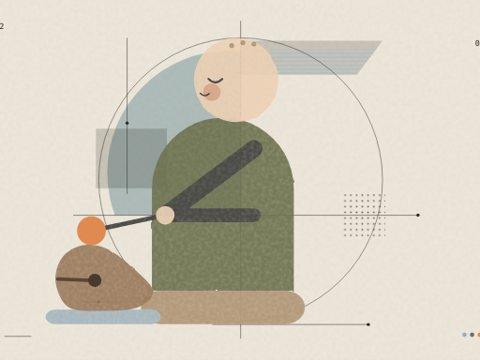
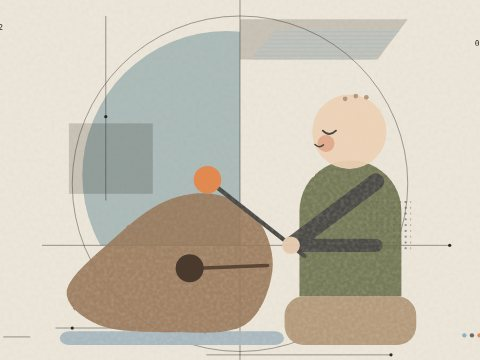
Linkages: big wooden fish, small seated monk (about 4:1 by area)
Claude-Session: https://claude.ai/code/session_01NPfPdtJwC2J2tRpUdWuEC5

diff --git a/projects/linkage/index.html b/projects/linkage/index.html
@@ -941,23 +941,23 @@ function toneize(svg,inkSel){plateize(svg,inkSel);svg.classList.add('tone');}
 
 const QR=["111111101010100000111101001111111", "100000101101101011001111101000001", "101110100010011100110000001011101", "101110101110100000100011101011101", "101110100010110010100100101011101", "100000100111101111100100101000001", "111111101010101010101010101111111", "000000001100100111110001000000000", "101101110001101111101100001001011", "000100001001011011011111001101101", "011110101110010010100011110111011", "001000011111000011001000001101001", "001001100010001010011000110111011", "010010001001101001001000100001110", "010110110000101001011000101100100", "010010000110011100100101111101100", "100000101010000000101100011011100", "010000011001101100100111101011011", "001110111011110100101010011110110", "110101000001001011100010001010000", "111010111010111110000010000101110", "111000001101111110001001001001101", "000001111110010101111111011000011", "010111001011110100001011110111001", "100100100110011001010011111110011", "000000001101001110010100100011010", "111111101101101001111101101010000", "100000101101010011111001100011100", "101110100101110111110011111110101", "101110101101101010010011100100011", "101110101110000111001001001101000", "100000100111101001001011100110001", "111111101001110011110101000011100"];
 /* ── 敲木魚・小和尚：D（肚子）在原點、A（肩膀）在右上 (2, 3)；長度 cm，y 向上 ── */
-const GA=[2,3],DEF={a:2,b:4,c:5},OFF=-25*Math.PI/180,MAL=3.4,TAIL=0.8,HEADR=0.65,FISH={rx:2.05,ry:1.6},TH0=Math.PI/2,U=(()=>{const v=[-0.25,-1],l=Math.hypot(...v);return [v[0]/l,v[1]/l];})();
+const GA=[2,3],DEF={a:2,b:4,c:5},OFF=-75*Math.PI/180,MAL=5,TAIL=0.8,HEADR=0.65,FISH={rx:2.05,ry:1.6},TH0=Math.PI/2,U=(()=>{const v=[-0.25,-1],l=Math.hypot(...v);return [v[0]/l,v[1]/l];})();
 const ROBE=[[-0.5,3.7],[0.6,4.35],[2.2,4.4],[3.3,3.8],[3.85,1.8],[4.05,-1.0],[3.6,-2.5],[1.5,-2.75],[-2.3,-2.7],[-3.2,-2.25],[-3.05,-1.45],[-1.6,-1.05],[-1.05,0.9],[-0.85,2.8]];
-const HEAD={c:[1.2,6.1],r:1.9};
+const HEAD={c:[0.75,5.35],r:1.75};
 /* 木魚側面：左邊圓鼓、往右收尖，側面一道魚嘴縫，縫底一個圓孔（y 向上，原點在木魚中心） */
 const FISH_CP=[[-2.15,-0.15],[-1.85,0.95],[-0.95,1.5],[0.15,1.35],[1.25,0.55],[2.25,-0.55],[1.55,-1.3],[0,-1.45],[-1.55,-1.3]];
-let FISH_P=null;const fishPts=()=>FISH_P||(FISH_P=smoothPts(FISH_CP,8));
+const FS=2.2;let FISH_P=null;const fishPts=()=>FISH_P||(FISH_P=smoothPts(FISH_CP,8).map(q=>[-q[0]*FS,q[1]*FS]));
 const FISH_TOP=()=>fishPts().reduce((m,q)=>q[1]>m[1]?q:m);
 /* 平滑曲線（Catmull–Rom），讓身體圓一點 */
 function smoothPts(P,n=8){const out=[],N=P.length;for(let i=0;i<N;i++){const p0=P[(i-1+N)%N],p1=P[i],p2=P[(i+1)%N],p3=P[(i+2)%N];
   for(let k=0;k<n;k++){const t=k/n,t2=t*t,t3=t2*t;out.push([0,1].map(j=>0.5*((2*p1[j])+(-p0[j]+p2[j])*t+(2*p0[j]-5*p1[j]+4*p2[j]-p3[j])*t2+(-p0[j]+3*p1[j]-3*p2[j]+p3[j])*t3)));}}return out;}
-const ROBE_S=(()=>{const P=[[-2.6,-3.4],[3.8,-3.4],[3.8,1.2]];for(let k=0;k<=24;k++){const a=Math.PI*k/24;P.push([0.6+3.2*Math.cos(a),1.2+3.2*Math.sin(a)]);}P.push([-2.6,1.2]);return P;})();
+const ROBE_S=(()=>{const P=[[-1.6,-2.4],[3.2,-2.4],[3.2,1.6]];for(let k=0;k<=24;k++){const a=Math.PI*k/24;P.push([0.8+2.4*Math.cos(a),1.6+2.4*Math.sin(a)]);}P.push([-1.6,1.6]);return P;})();
 /* 臉、戒疤、袈裟、木魚的五官：y 向上，畫面上用 -y */
 function monkFace(o){const c=HEAD.c,x=c[0],y=c[1];
   return {eye:`M${x-1.25} ${-(y+0.05)}q.3 .32 .62 0`,cheek:[x-1.1,y-0.55,0.32],mouth:`M${x-1.62} ${-(y-0.6)}q.2 .2 .4 .02`,
     dots:[[x-0.2,y+1.55],[x+0.3,y+1.68],[x+0.8,y+1.62]],ear:[x+0.6,y-0.2,0.42],sash:`M-0.9 -3.9L3.6 0.6`};}
 function fishFace(F){const x=F[0],y=F[1];
-  return {path:'M'+fishPts().map(q=>f3(x+q[0])+' '+f3(-(y+q[1]))).join('L')+'Z',mouth:`M${f3(x-2.05)} ${f3(-(y-0.02))}L${f3(x-0.55)} ${f3(-(y-0.08))}`,eye:[x-0.38,y-0.08,0.3]};}
+  return {path:'M'+fishPts().map(q=>f3(x+q[0])+' '+f3(-(y+q[1]))).join('L')+'Z',mouth:`M${f3(x+2.05*FS)} ${f3(-(y-0.02*FS))}L${f3(x+0.55*FS)} ${f3(-(y-0.08*FS))}`,eye:[x+0.38*FS,y-0.08*FS,0.3*FS]};}
 function fishFaceOld(F){const x=F[0],y=F[1];
   return {mouth:`M${f3(x-1.95)} ${f3(-(y-0.15))}Q${f3(x-1.0)} ${f3(-(y-0.75))} ${f3(x-0.15)} ${f3(-(y-0.1))}`,eye:[x-0.75,y+0.45,0.26],glint:[x-0.82,y+0.53,0.08],
     scales:`M${f3(x+0.35)} ${f3(-(y+0.75))}q.35 .3 .7 0M${f3(x+0.55)} ${f3(-(y+0.15))}q.35 .3 .7 0M${f3(x+0.3)} ${f3(-(y-0.45))}q.35 .3 .7 0`,
@@ -977,14 +977,14 @@ function analyse(s){
   list.forEach((g,i)=>{if(g.phi>list[iMax].phi)iMax=i;if(g.phi<list[iMin].phi)iMin=i;});
   let fish=null,floor=-5,ratio=null;
   if(list.length){const H=list[iMax].H,hit=[H[0]+U[0]*HEADR,H[1]+U[1]*HEADR],T=FISH_TOP();
-    const F=[hit[0]-T[0],hit[1]-T[1]];fish={F,hit};floor=Math.min(F[1]-1.45-0.6,-4.6);
+    const F=[hit[0]-T[0],hit[1]-T[1]];fish={F,hit};floor=Math.min(F[1]-1.45*FS-0.6,-3.6);
     if(sw.full){const n=list.length,strike=((iMax-iMin)+n)%n;ratio=(n-strike)/strike;}}
   const g=grashof({a:s.a,b:s.b,c:s.c,d:dG},'a');
   let kind='none';
   if(list.length){kind=sw.full?(Math.abs(g.diff)<0.05?'crit':'ok'):(Math.abs(g.diff)<0.05&&g.crankShortest?'crit':'jam');}
   return {s:{...s},list,full:sw.full,iMax,iMin,swing:list.length?(list[iMax].phi-list[iMin].phi)*180/Math.PI:0,fish,floor,ratio,g,kind};
 }
-const cushion=fl=>({c:[0.6,(-3.4+fl)/2],rx:3.7,ry:Math.max(0.45,(-3.4-fl)/2)});
+const cushion=fl=>({c:[0.8,(-2.4+fl)/2],rx:3.1,ry:Math.max(0.45,(-2.4-fl)/2)});
 /* 一個畫面（hero、模擬器、小測驗共用）*/
 let VID=0;
 function view(svg,opt={}){
@@ -1035,9 +1035,9 @@ function view(svg,opt={}){
       E.floor.setAttribute('x1',vb[0]);E.floor.setAttribute('x2',vb[0]+vb[2]);E.floor.setAttribute('y1',-an.floor);E.floor.setAttribute('y2',-an.floor);
       if(an.fish){const F=an.fish.F,ff=fishFace(F);E.fish.setAttribute('d',ff.path);E.fishHt.setAttribute('d',ff.path);E.slot.setAttribute('d',ff.mouth);
         E.feye.setAttribute('cx',ff.eye[0]);E.feye.setAttribute('cy',-ff.eye[1]);E.feye.setAttribute('r',ff.eye[2]);
-        const pb=F[1]-1.45;E.fpad.setAttribute('x',F[0]-2.6);E.fpad.setAttribute('y',-pb-0.05);E.fpad.setAttribute('width',5.2);E.fpad.setAttribute('height',Math.max(0.5,pb-an.floor+0.05));E.fpad.style.display='';
+        const pb=F[1]-1.45*FS;E.fpad.setAttribute('x',F[0]-2.4*FS);E.fpad.setAttribute('y',-pb-0.05);E.fpad.setAttribute('width',4.8*FS);E.fpad.setAttribute('height',Math.max(0.5,pb-an.floor+0.05));E.fpad.style.display='';
         E.fishG.style.transformOrigin=`${F[0]}px ${-pb}px`;E.fishG.style.display='';
-        E.plus.setAttribute('x',F[0]);E.plus.setAttribute('y',-F[1]-2.4);E.plus2.setAttribute('x',F[0]+0.09);E.plus2.setAttribute('y',-F[1]-2.34);}
+        E.plus.setAttribute('x',F[0]-1.5);E.plus.setAttribute('y',-F[1]-1.8*FS);E.plus2.setAttribute('x',F[0]-1.41);E.plus2.setAttribute('y',-F[1]-1.8*FS+.06);}
       else{E.fishG.style.display='none';E.fpad.style.display='none';}
       const L=an.list;E.trace.setAttribute('d',L.length?'M'+L.filter((_,i)=>i%4===0).map(g=>f3(g.H[0])+' '+f3(-g.H[1])).join('L'):'');
       this.draw();},
@@ -1067,14 +1067,14 @@ function knock(){if(!soundOn)return;try{AC=AC||new (window.AudioContext||window.
 
 /* ── 模擬器 ── */
 const st={s:{...DEF},playing:!reduce,speed:0.5};
-const hero=view($('hero'),{vb:[-8.6,-9.8,15.2,17.4],noSkel:true});
-const main=view($('stage'),{vb:[-8,-8.9,14,15.4]});
-const qv=view($('fig-quiz'),{vb:[-8,-9.2,14,15.7]});
+const hero=view($('hero'),{vb:[-14.4,-12,20.2,18],noSkel:true});
+const main=view($('stage'),{vb:[-13.8,-11.4,19,16.8]});
+const qv=view($('fig-quiz'),{vb:[-13.8,-11.6,19,17]});
 {const INK='.r-cush,.r-pad,.r-robe,.r-skin,.r-fish,.r-arm,.r-coup,.r-hand,.k-stick';toneize($('stage'),INK);toneize($('fig-quiz'),INK);}
 main.onHit=m=>{$('merit').textContent=m;knock();};
 hero.set(analyse(DEF));
 (function(){const an=analyse(DEF);const trace='M'+an.list.filter((_,i)=>i%4===0).map(g=>f3(g.H[0])+' '+f3(-g.H[1])).join('L');
-  const INK='.r-cush,.r-pad,.r-robe,.r-skin,.r-fish,.r-arm,.r-coup,.r-hand,.k-stick';plateize($('hero'),INK);plateOverlay($('hero'),[-8.6,-9.8,15.2,17.4],{no:'002',letters:'W / F / M',phrase:'Malleus et Piscis',c:[-1,-1.1],R:6.6,ay:0});})();
+  const INK='.r-cush,.r-pad,.r-robe,.r-skin,.r-fish,.r-arm,.r-coup,.r-hand,.k-stick';plateize($('hero'),INK);plateOverlay($('hero'),[-14.4,-12,20.2,18],{no:'002',letters:'W / F / M',c:[-4.6,-2.6],R:8.4,ay:0});})();
 const keys=['a','b','c'];
 function syncInputs(){for(const k of keys){$('in-'+k).value=st.s[k];$('out-'+k).textContent=n1(st.s[k])+' cm';}}
 const KIND={ok:['轉得動','曲柄可以轉一整圈。 The crank turns all the way round.'],
@@ -1116,28 +1116,29 @@ const isCustom=s=>keys.some(k=>Math.abs(s[k]-DEF[k])>1e-9);
 const customText=s=>isCustom(s)?`自訂桿長　曲柄 ${n1(s.a)}・連桿 ${n1(s.b)}・手臂 ${n1(s.c)} cm`:'';
 /* 零件位置（cm，y 向下、x 從摺線算起）。孔都在格點上 */
 function spots(s){
-  const R=s.a+0.8,dc=[Math.ceil(-14.85+R+0.4),17-Math.ceil(R+0.4)];
-  return {D:[8,9],disc:{D:dc,C:[dc[0]+s.a,dc[1]],R},coup:{C:[-13,9],B:[-13+s.b,9]},arm:{A:[-13,4],B:[-13+s.c,4]},fish:[-3.5,14.3]};
+  const R=s.a+0.8;
+  const dd=[-Math.ceil(R+0.4),Math.ceil(0.6+R)];return {D:[10,12],disc:{D:dd,C:[dd[0]+s.a,dd[1]],R},coup:{C:[-14,8.2],B:[-14+s.b,8.2]},arm:{A:[-14,2.4],B:[-14+s.c,2.4]},fish:[-9.3,12.8]};
 }
 const at=(o,p)=>[o[0]+p[0],o[1]-p[1]];
 function partsSVG(s,an,full){
   const p=spots(s),M=toMM;let o='';
   const F=an.fish?an.fish.F:[-3.4,-3.6],fl=an.floor,cu=cushion(fl),D=p.D;
   const base=full?[{pts:ROBE_S.map(q=>M(at(D,q))),closed:true,w:0.6},{circle:[...M(at(D,HEAD.c)),HEAD.r*10]},{pts:[[cu.c[0]-cu.rx,cu.c[1]+cu.ry],[cu.c[0]+cu.rx,cu.c[1]+cu.ry],[cu.c[0]+cu.rx,cu.c[1]-cu.ry],[cu.c[0]-cu.rx,cu.c[1]-cu.ry]].map(q=>M(at(D,q))),closed:true,w:0.6},
-      {pts:[M(at(D,[F[0]-FISH.rx,fl+0.35])),M(at(D,[cu.c[0]+1,fl+0.35]))],w:4}]
-    :[{pts:[M(at(D,[0,0])),M(at(D,GA))]},{pts:[M(at(D,[F[0]-FISH.rx,fl+0.35])),M(at(D,[0,fl+0.35]))],w:4},{pts:[M(at(D,[0,fl+0.35])),M(at(D,[0,0]))],w:4}];
+      {pts:[M(at(D,[-6.4,fl+0.35])),M(at(D,[cu.c[0]+1,fl+0.35]))],w:4}]
+    :[{pts:[M(at(D,[0,0])),M(at(D,GA))]},{pts:[M(at(D,[-6.4,fl+0.35])),M(at(D,[0,fl+0.35]))],w:4},{pts:[M(at(D,[0,fl+0.35])),M(at(D,[0,0]))],w:4}];
   const md=[Math.cos(OFF),Math.sin(OFF)],Bm=p.arm.B,Hs=[Bm[0]+MAL*md[0],Bm[1]-MAL*md[1]];
   o+=outline([...base,{circle:[...M(p.disc.D),p.disc.R*10]}]);
   if(full){
     o+=outline([{pts:[M(p.coup.C),M(p.coup.B)]},{pts:[M(p.arm.A),M(p.arm.B)]},{pts:[M([Bm[0]-TAIL*md[0],Bm[1]+TAIL*md[1]]),M(Hs)],w:3.5},{circle:[...M(Hs),HEADR*10]},{pts:fishPts().map(q=>M([p.fish[0]+q[0],p.fish[1]-q[1]])),closed:true,w:0.6}]);
-    const Fs=M(p.fish),fx=Fs[0],fy=Fs[1];o+=`<path d="M${f2(fx-20.5)} ${f2(fy+0.2)}L${f2(fx-5.5)} ${f2(fy+0.8)}" fill="none" stroke="${INK}" stroke-width="1.4" stroke-linecap="round"/><circle cx="${f2(fx-3.8)}" cy="${f2(fy+0.8)}" r="3" fill="${INK}"/>`+T(Fs[0],Fs[1]+19.5,'木魚（不打孔，貼在底座的虛線上）',{size:2.6,anchor:'middle',fill:MID});
+    const Fs=M(p.fish),fx=Fs[0],fy=Fs[1];o+=`<path d="M${f2(fx+45)} ${f2(fy+0.4)}L${f2(fx+12)} ${f2(fy+1.8)}" fill="none" stroke="${INK}" stroke-width="1.4" stroke-linecap="round"/><circle cx="${f2(fx+8.4)}" cy="${f2(fy+1.8)}" r="4.5" fill="${INK}"/>`+T(Fs[0],Fs[1]+19.5,'木魚（不打孔，貼在底座的虛線段）',{size:2.6,anchor:'middle',fill:MID});
     const mf=monkFace(),Q=q=>M(at(D,q)),e0=Q([HEAD.c[0]-1.25,HEAD.c[1]+0.05]),ck=Q(mf.cheek),mo=Q([HEAD.c[0]-1.62,HEAD.c[1]-0.6]);
     o+=`<path d="M${f2(e0[0])} ${f2(e0[1])}q3 3.2 6.2 0" fill="none" stroke="${INK}" stroke-width="0.5" stroke-linecap="round"/><circle cx="${f2(ck[0])}" cy="${f2(ck[1])}" r="3.2" fill="none" stroke="${INK}" stroke-width="0.2" stroke-dasharray="0.6 0.6"/><path d="M${f2(mo[0])} ${f2(mo[1])}q2 2 4 .2" fill="none" stroke="${INK}" stroke-width="0.35" stroke-linecap="round"/>`;
     for(const d of mf.dots){const q=Q(d);o+=`<circle cx="${f2(q[0])}" cy="${f2(q[1])}" r="0.9" fill="${INK}"/>`;}
-    const s1=Q([-0.9,3.9]),s2=Q([3.6,-0.6]);o+=L(s1[0],s1[1],s2[0],s2[1],0.3);
+    const s1=Q([-1.2,3.0]),s2=Q([3.1,-1.2]);o+=L(s1[0],s1[1],s2[0],s2[1],0.3);
     
   }
-  const Fb=M(at(D,F));o+=`<path d="M${fishPts().map(q=>{const m=M(at(D,[F[0]+q[0],F[1]+q[1]]));return f2(m[0])+' '+f2(m[1]);}).join('L')}Z" fill="none" stroke="${INK}" stroke-width="0.3" stroke-dasharray="1.2 1"/>`+T(Fb[0],Fb[1]+1,full?'木魚貼這裡':'被敲的東西放這裡',{size:2.6,anchor:'middle',fill:MID});
+  {const xr=F[0]+Math.max(...fishPts().map(q=>q[0])),a1=M(at(D,[xr,fl+0.35])),a2=M(at(D,[xr,fl+2.6])),a3=M(at(D,[-6.4,fl+0.35]));
+   o+=`<path d="M${f2(a3[0])} ${f2(a1[1]-0.2)}H${f2(a1[0])}M${f2(a1[0])} ${f2(a1[1])}V${f2(a2[1])}" fill="none" stroke="${INK}" stroke-width="0.3" stroke-dasharray="1.2 1"/>`+T(a1[0]-1.5,a2[1]+0.5,full?'木魚貼在這段，右端對齊虛線':'被敲的東西放這段',{size:2.4,anchor:'end',fill:MID});}
   if(!full){const h=M(at(D,an.fish?an.fish.hit:[-2.6,-1.4]));o+=L(h[0]-2,h[1]-2,h[0]+2,h[1]+2,0.35)+L(h[0]-2,h[1]+2,h[0]+2,h[1]-2,0.35)+T(h[0]+3,h[1]-2.5,'敲擊點',{size:2.8,fill:MID});
     o+=`<circle cx="${f2(M(Hs)[0])}" cy="${f2(M(Hs)[1])}" r="${HEADR*10}" fill="none" stroke="${INK}" stroke-width="0.25" stroke-dasharray="1 0.8"/>`+T(M(Hs)[0],M(Hs)[1]+11,'槌頭',{size:2.8,anchor:'middle',fill:MID});}
   const Dm=M(D),Am=M(at(D,GA));
@@ -1153,7 +1154,7 @@ function partsSVG(s,an,full){
   return o;
 }
 function thumb(an){
-  if(!an.list.length)return '';const g=an.list[an.iMax],k=1.25,tx=106,ty=25,P=q=>[tx+q[0]*k,ty-q[1]*k];let o='';
+  if(!an.list.length)return '';const g=an.list[an.iMax],k=0.8,tx=110,ty=24,P=q=>[tx+q[0]*k,ty-q[1]*k];let o='';
   o+=`<path d="M${ROBE.map(q=>P(q).map(f2).join(' ')).join('L')}Z" fill="#ececec" stroke="${INK}" stroke-width="0.15"/>`;
   const h=P(HEAD.c);o+=`<circle cx="${f2(h[0])}" cy="${f2(h[1])}" r="${HEAD.r*k}" fill="#ececec" stroke="${INK}" stroke-width="0.15"/>`;
   if(an.fish){const F=an.fish.F;o+=`<path d="M${fishPts().map(q=>P([F[0]+q[0],F[1]+q[1]]).map(f2).join(' ')).join('L')}Z" fill="#d9d9d9" stroke="${INK}" stroke-width="0.15"/>`;}
@@ -1175,8 +1176,8 @@ $('btn-ws-std').addEventListener('click',()=>{buildSheets(DEF);requestAnimationF
 
 
 /* 卡片小圖：用同一個畫面，停在敲下的那一刻 */
-(function(){const el=document.getElementById('card-fish');if(!el)return;const vb=[-11.6,-9.75,26,16.25];const v=view(el,{vb,noGrid:true,noSkel:true});const an=analyse(DEF);v.set(an);v.E.trace.style.display='none';v.idx=an.iMax;v.draw();
-  plateize(el,'.r-cush,.r-pad,.r-robe,.r-skin,.r-fish,.r-arm,.r-coup,.r-hand,.k-stick');plateOverlay(el,vb,{no:'002',letters:'W / F / M',c:[1.4,-1.6],R:6.4,ay:0});})();
+(function(){const el=document.getElementById('card-fish');if(!el)return;const vb=[-18,-11.6,27.2,17];const v=view(el,{vb,noGrid:true,noSkel:true});const an=analyse(DEF);v.set(an);v.E.trace.style.display='none';v.idx=an.iMax;v.draw();
+  plateize(el,'.r-cush,.r-pad,.r-robe,.r-skin,.r-fish,.r-arm,.r-coup,.r-hand,.k-stick');plateOverlay(el,vb,{no:'002',letters:'W / F / M',c:[-4.4,-2.9],R:7.9,ay:0});})();
 /* ── 範例卡片：每張都是用自己的連桿算出來的符號 ── */
 document.querySelectorAll('.cards svg.glyph').forEach(s=>{plateize(s);const vb=s.getAttribute('viewBox').split(' ').map(Number),c=s.dataset.c.split(',').map(Number);plateOverlay(s,vb,{no:s.dataset.no,letters:s.dataset.l,c,R:+s.dataset.r,ay:+s.dataset.ay});});
 
